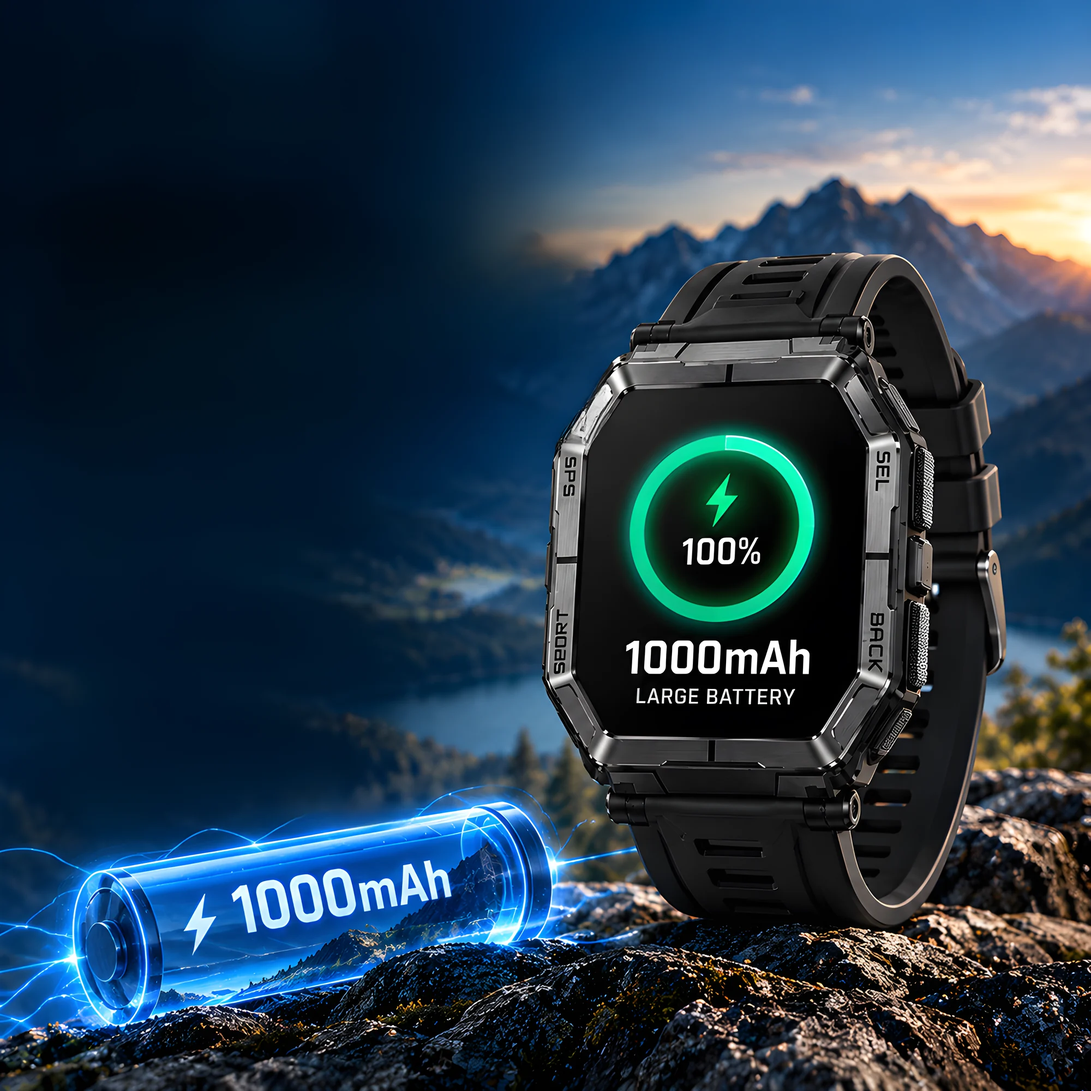
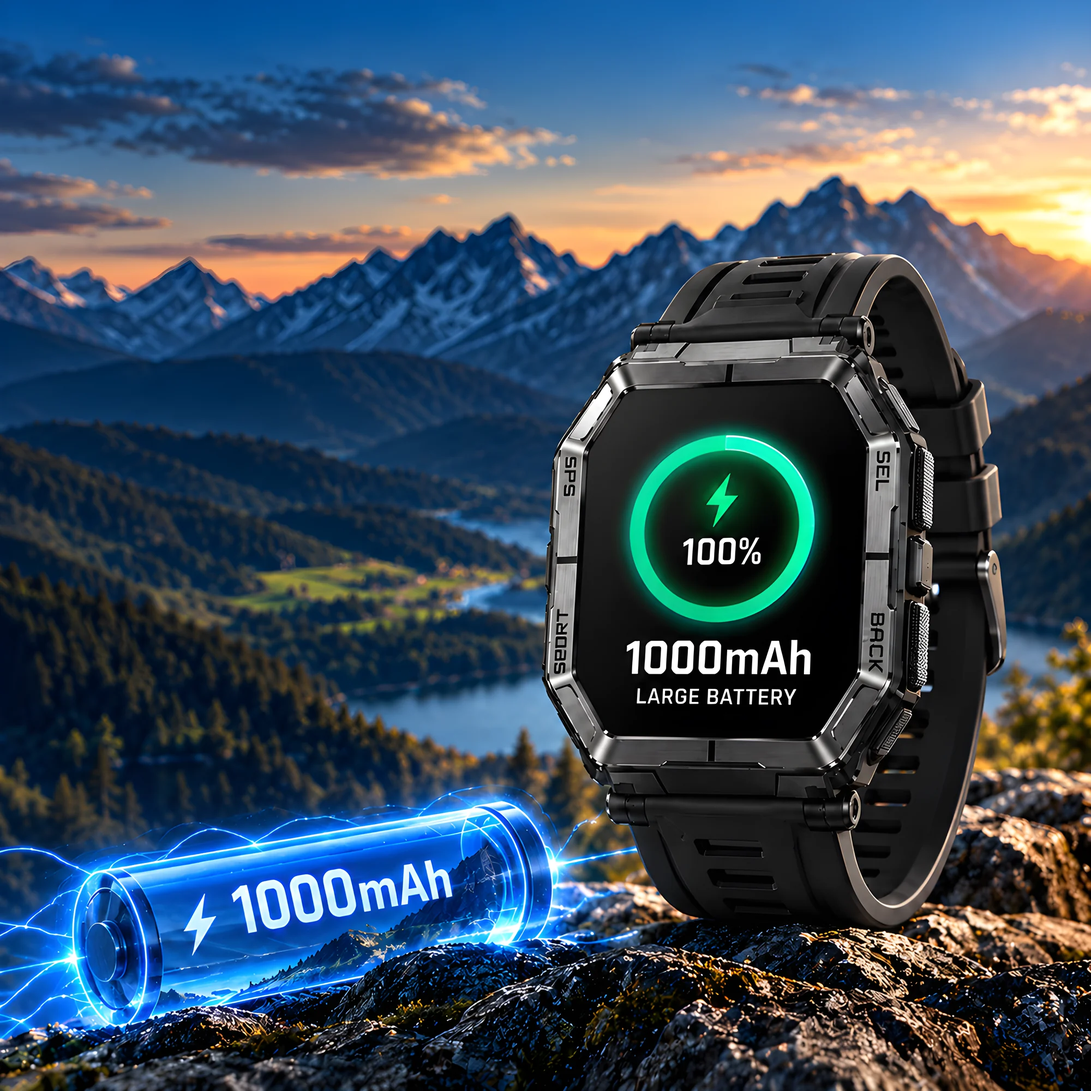
Slider: Maher's new photos for all five highlights
Same 2000px square size, sharpened. Alt texts updated to match.

Claude-Session: https://claude.ai/code/session_0131Ey9WtYzRJWk6AUwA1R6u

diff --git a/lib/products.ts b/lib/products.ts
@@ -163,7 +163,7 @@ export const products: Product[] = [
       {
         image: "/products/life/matin-trekon-built-for-the-tough.webp",
         tab: "Tough",
-        alt: "MATIN Trekon rugged smartwatch covered in mud on a soldier's wrist",
+        alt: "MATIN Trekon rugged smartwatch covered in mud on a soldier's wrist in the mountains",
         title: ["Built for", "the tough"],
         accent: "gold",
         text: "For work. For mission. For more.",
@@ -178,7 +178,7 @@ export const products: Product[] = [
       {
         image: "/products/life/matin-trekon-built-tough-outdoors.webp",
         tab: "Outdoors",
-        alt: "MATIN Trekon smartwatch splashed with water on a mountain rock",
+        alt: "Hiker checking a GPS route on the MATIN Trekon smartwatch above a mountain lake",
         title: ["Built", "tough"],
         text: "Designed for real adventures, ready for any environment.",
         points: [
@@ -203,7 +203,7 @@ export const products: Product[] = [
       {
         image: "/products/life/matin-trekon-built-in-gps.webp",
         tab: "GPS",
-        alt: "MATIN Trekon smartwatch showing a GPS route map on a mountain top",
+        alt: "MATIN Trekon smartwatch showing a GPS route map, distance and pace on a mountain rock",
         title: ["Built-in", "GPS"],
         text: "Track your route, distance and pace with high-precision GPS.",
         points: [
